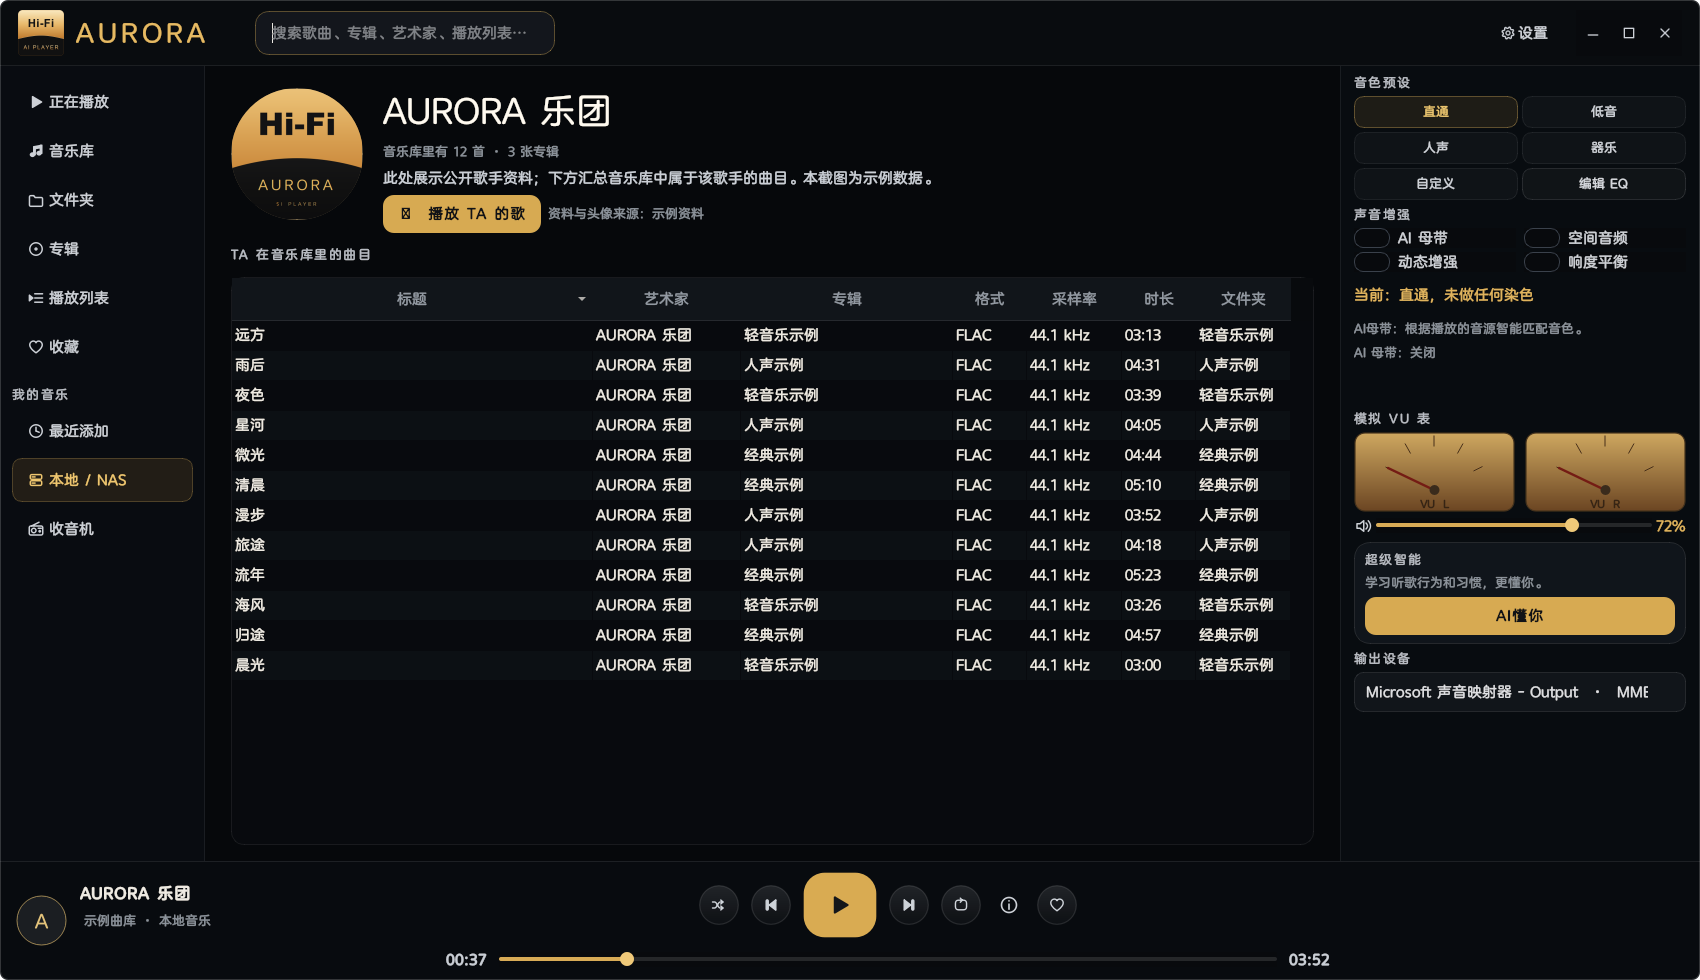
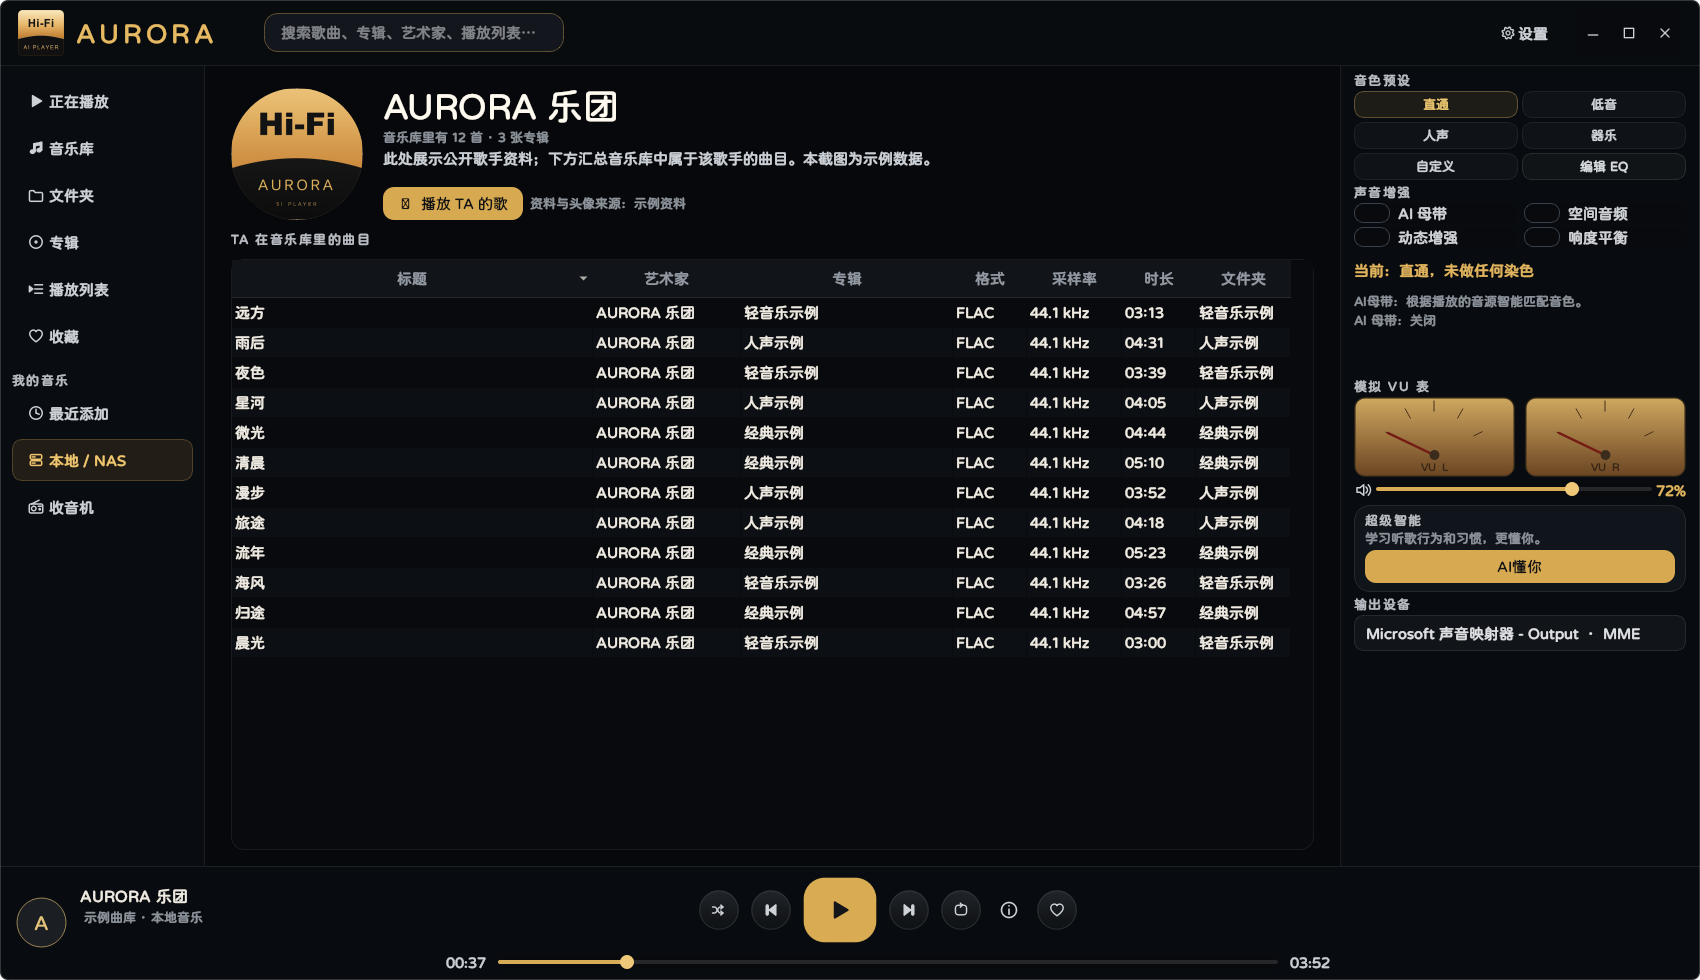
Publish 2.1.2 rounded font, feedback and seven-day trial

diff --git a/README.md b/README.md
@@ -16,9 +16,9 @@
 
 ![AURORA Player 正在播放界面（示例）](images/01-player.png)
 
-**当前版本：2.1.1 · Windows 64 位 · 原生编译保护版。** 下载后直接运行，无需安装 Python。
+**当前版本：2.1.2 · Windows 64 位 · 原生编译保护版。** 下载后直接运行，无需安装 Python。
 
-**本次更新：** 补齐桌面中英文界面，修正动态提示、歌曲简介和更多菜单的漏翻。切换语言时，歌名、歌手、专辑、歌词和公开简介保持原文，播放继续。正式版已接入爱发电购买；旧内测包显示购买入口未开放时，请重新下载本页的正式版。
+**本次更新：** 界面换用寒蝉全圆体 v3.200，提供原生常规与粗体字重，计时数字宽度稳定。新字体采用 SIL OFL 1.1，允许商用及随软件分发，许可原文可在「设置 → 为爱发电 → 字体许可」查看。全功能免费试用调整为 7 天，到期后继续使用基本版；需要全功能可付费解锁。增加「设置 → 意见反馈」窗口，填写后自动打开邮件草稿并填写收件人；请在邮件程序中确认发送。中英文界面、原生编译保护及现有购买授权功能继续保留。
 
 AURORA 为同时在意**界面、功能与音质**的你设计。把电脑和 NAS 中的音乐收藏放进同一个曲库，以封面、歌词、频谱和 VU 表呈现音乐，再用听歌偏爱学习与声音调整，让找歌、看界面和听音乐成为连贯的体验。
 
@@ -58,7 +58,7 @@ AURORA 为同时在意**界面、功能与音质**的你设计。把电脑和 NA
 | 下载 | 说明 |
 | :--- | :--- |
 | [Windows 64 位 EXE](https://github.com/Howard9088/AURORA_Player/releases/latest/download/AURORA_Player.exe) | 单文件正式版，下载后运行。 |
-| [Windows 64 位 ZIP](https://github.com/Howard9088/AURORA_Player/releases/latest/download/AURORA_Player_NativeProtected_v2.1.1_Windows_x64.zip) | 包含程序、使用说明和校验信息，解压后运行。 |
+| [Windows 64 位 ZIP](https://github.com/Howard9088/AURORA_Player/releases/latest/download/AURORA_Player_NativeProtected_v2.1.2_Windows_x64.zip) | 包含程序、使用说明和校验信息，解压后运行。 |
 | [SHA256 校验文件](https://github.com/Howard9088/AURORA_Player/releases/latest/download/SHA256.txt) | 核对下载文件完整性。 |
 
 1. 下载并打开 `AURORA_Player.exe`。
@@ -81,7 +81,7 @@ AURORA 为同时在意**界面、功能与音质**的你设计。把电脑和 NA
 | AI 懂我：行为学习、智能推荐、文件夹推荐 | — | ✓ |
 | 标签补齐、面板材质及灯光等高级设置 | — | ✓ |
 
-首次使用可试用全功能 **30 天**。试用或付费授权到期后，继续使用免费功能，保留曲库、收藏和学习数据。
+首次使用可试用全功能 **7 天**。已有试用记录沿用原始开始时间，按 7 天计算；升级或重启不会重新起算。试用或付费授权到期后，继续使用免费功能，保留曲库、收藏和学习数据。
 
 | 全功能授权 | 价格与期限 | 购买入口 |
 | :--- | :--- | :--- |
@@ -395,8 +395,10 @@ AURORA 为同时在意**界面、功能与音质**的你设计。把电脑和 NA
 
 **下载页里的 Source code 是播放器源码吗？** 不是。GitHub 自动生成的源码压缩包只包含此公开介绍仓库的文档和图片。运行程序请下载 EXE 或 Windows ZIP。
 
-问题反馈请提交 [GitHub Issue](https://github.com/Howard9088/AURORA_Player/issues)，附上版本、出现问题的界面和复现步骤；购买或订单问题可通过对应爱发电商品联系作者。反馈时请勿公开激活码或个人凭据。
+可在软件「设置 → 意见反馈」填写建议，点击「发送反馈」后在默认邮件程序中确认发送；软件不显示作者邮箱。也可提交 [GitHub Issue](https://github.com/Howard9088/AURORA_Player/issues)，附上版本、出现问题的界面和复现步骤；购买或订单问题可通过对应爱发电商品联系作者。反馈时请勿公开激活码或个人凭据。
 
 [版本说明](RELEASE_NOTES.md) · [软件许可](SOFTWARE_LICENSE.md)
 
 © 2026 AURORA_Player
+
+界面字体：寒蝉全圆体 v3.200，使用未经修改的原始字体。字体单独遵循 [SIL OFL 1.1](FONT_LICENSE.txt)，软件继续采用闭源共享软件许可。

diff --git a/GUIDE.md b/GUIDE.md
@@ -88,7 +88,7 @@
 
 ## 为爱发电
 
-**入口：** 「设置 → 为爱发电」。可打开 ¥10 / 30 天或 ¥98 买断商品，粘贴爱发电私信收到的激活码，或重新核验授权。30 天付费授权从首次自动核验付款成功起算。页面显示当前试用 / 授权状态、到期时间及软件版权信息；两个付费方案开放相同功能。
+**入口：** 「设置 → 为爱发电」。可打开 ¥10 / 30 天或 ¥98 买断商品，粘贴爱发电私信收到的激活码，或重新核验授权。30 天付费授权从首次自动核验付款成功起算。全功能首次免费试用 7 天，到期后继续使用基本版；需要全功能可付费解锁。页面显示当前试用 / 授权状态、到期时间及软件版权信息；两个付费方案开放相同功能。
 
 ![为爱发电与授权](images/14-support.png)
 
@@ -151,3 +151,15 @@
 ![不喜欢歌曲管理](images/24-disliked.png)
 
 [返回产品首页](README.md)
+
+## 意见反馈
+
+**入口：**「设置 → 意见反馈」。填写问题或建议，点击「发送反馈」后，默认邮件程序会打开已填好收件人、主题和内容的草稿，请在邮件程序中确认发送。最多 500 字；未配置默认邮件程序时，内容保留在窗口中，配置后可重试。
+
+![意见反馈](images/26-feedback.png)
+
+## 字体许可
+
+**入口：**「设置 → 为爱发电 → 字体许可」。当前界面使用寒蝉全圆体 v3.200 原版常规与粗体，字体采用 SIL OFL 1.1，可免费商用及随软件分发。原始版权及许可随程序保留；字体许可与播放器自身的共享软件许可分别适用。
+
+![字体许可](images/27-font-license.png)

diff --git a/RELEASE_NOTES.md b/RELEASE_NOTES.md
@@ -1,5 +1,14 @@
 # 正式版发布说明
 
+## 2.1.2 · 2026-10-10
+
+- 界面字体替换为寒蝉全圆体 v3.200 原版常规与粗体，采用允许免费商用、嵌入及随软件分发的 SIL OFL 1.1 许可。
+- 保留字体版权和许可原文，可在「设置 → 为爱发电 → 字体许可」查看。
+- 增加「设置 → 意见反馈」窗口；收件人自动填写，软件界面不显示邮箱，邮件草稿由默认邮件程序打开并由用户确认发送。
+- 全功能免费试用调整为 7 天，到期后继续使用基本版，保留曲库、收藏和学习数据；付费 30 天授权与买断授权期限不受影响。
+- 保持计时数字宽度稳定；中英文界面、播放与购买授权功能延续现有版本。
+- 提供重新编译的 Windows 64 位单文件 EXE、ZIP 和 SHA256 校验文件，公开介绍截图同步新字体。
+
 ## 2.1.1 · 2026-10-10
 
 - 补齐桌面中英文界面：播放器、曲库、设置、歌曲简介、学习结果、菜单和动态提示。

diff --git a/SOFTWARE_LICENSE.md b/SOFTWARE_LICENSE.md
@@ -13,3 +13,5 @@ AURORA Player 为闭源共享软件，基础功能免费，全功能提供试用
 程序使用的第三方组件保留各自许可与权利，不因本软件的闭源许可而改变。
 
 [返回产品首页](README.md)
+
+界面字体寒蝉全圆体 v3.200 为独立第三方字体，使用未经修改的原始文件，单独遵循 [SIL OFL 1.1](FONT_LICENSE.txt)。本软件许可中的限制不改变字体文件的 OFL 权利。
